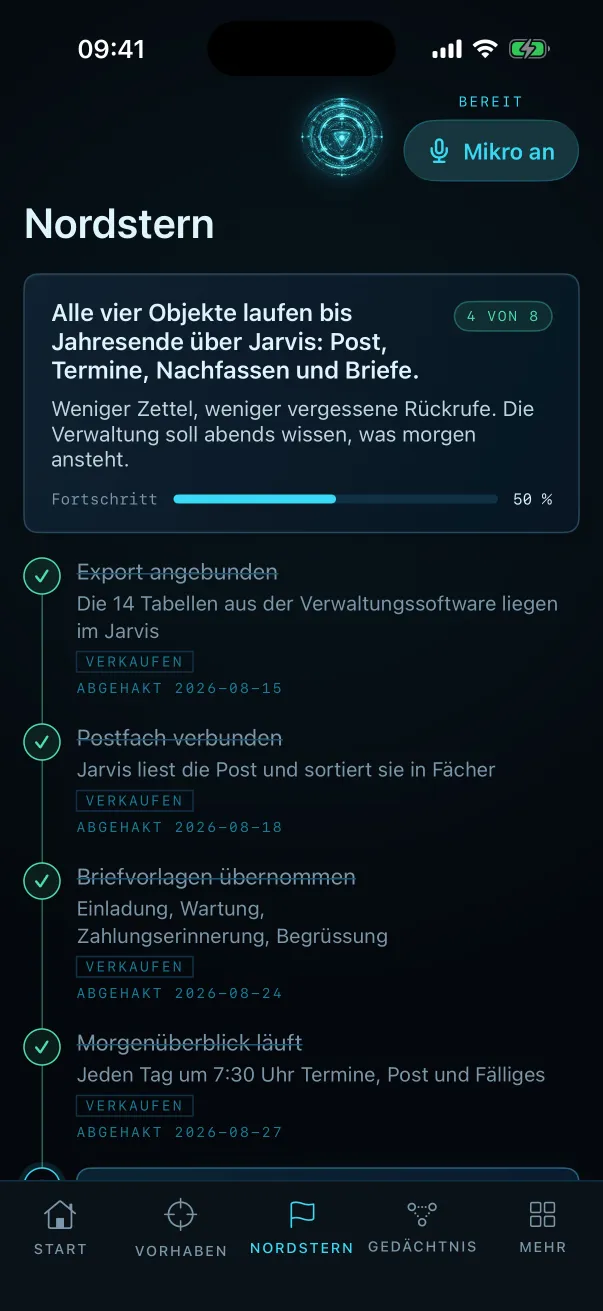
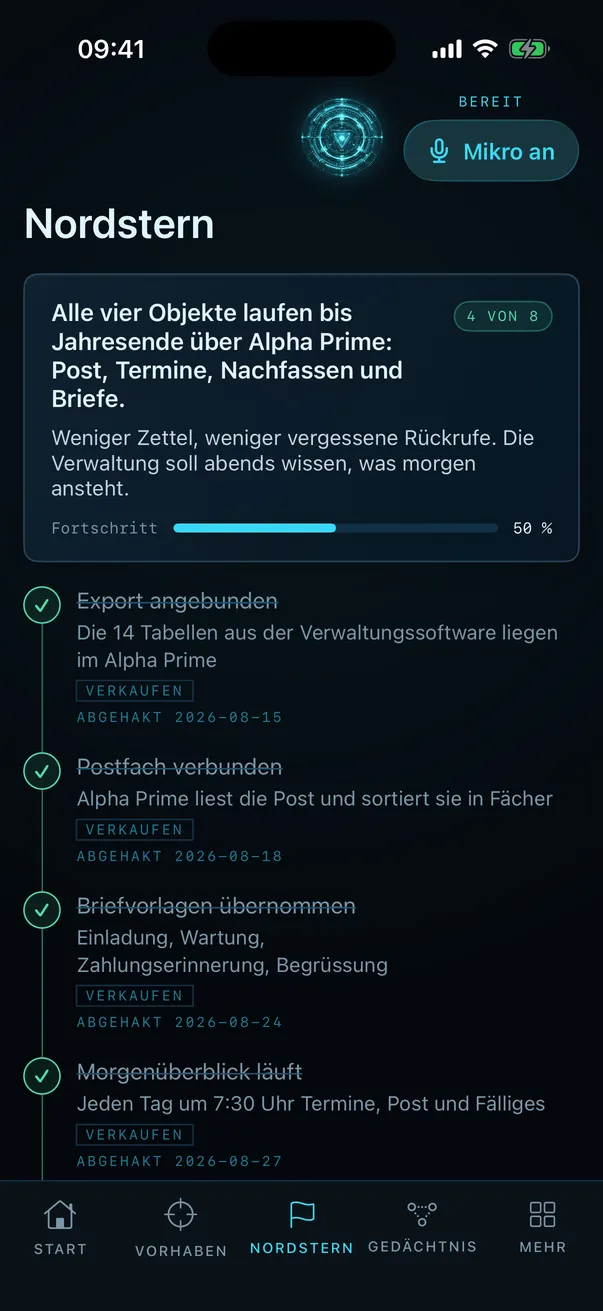
Neue Aufnahmen der App unter dem Namen Alpha Prime
Alle iPhone- und Mac-Bilder neu: kein Jarvis mehr im Bild, Begrüßung
„Guten Tag“, Vorhaben ohne internen Hinweis, Mac-Übersicht vollständig.
Nordstern-Bild wieder in der Bildstrecke.

diff --git a/alpha-prime/index.html b/alpha-prime/index.html
@@ -14,7 +14,7 @@
 <link rel="preload" href="/assets/fonts/neu/archivo-var.woff2" as="font" type="font/woff2" crossorigin>
 <link rel="preload" href="/assets/fonts/xn7gYHE41ni1AdIRggexSg.woff2" as="font" type="font/woff2" crossorigin>
 
-<link rel="stylesheet" href="/stil.css?v=202610082259">
+<link rel="stylesheet" href="/stil.css?v=202610082313">
 <meta property="og:type" content="website">
 <meta property="og:site_name" content="Alpha Blueprint">
 <meta property="og:locale" content="de_DE">
@@ -68,7 +68,7 @@
         <figure><img src="/assets/neu/jarvis/iphone-vorhaben.webp" width="603" height="1311" alt="" loading="lazy"></figure>
         <figure><img src="/assets/neu/jarvis/iphone-merker.webp" width="603" height="1311" alt="" loading="lazy"></figure>
         <figure><img src="/assets/neu/jarvis/iphone-gehirn.webp" width="603" height="1311" alt="" loading="lazy"></figure>
-        <figure><img src="/assets/neu/jarvis/iphone-start.webp" width="603" height="1311" alt="" loading="lazy"></figure>
+        <figure><img src="/assets/neu/jarvis/iphone-nordstern.webp" width="603" height="1311" alt="" loading="lazy"></figure>
       </div>
       <div class="schritte">
         <div class="schritt">
@@ -99,7 +99,7 @@
           <p class="kennung">Nordstern</p>
           <h3>Er kennt Ihr Ziel.</h3>
           <p>Das große Ziel als Leiter mit Schritten zum Abhaken. Alpha Prime richtet seine Vorschläge danach aus und fragt nach, wenn etwas erledigt klingt. Abgehakt wird nur, was Sie bestätigen.</p>
-          <img class="handy-bild" src="/assets/neu/jarvis/iphone-start.webp" width="603" height="1311" alt="Startseite mit der Nordstern-Karte: Ziel, Fortschritt und der nächste Schritt" loading="lazy">
+          <img class="handy-bild" src="/assets/neu/jarvis/iphone-nordstern.webp" width="603" height="1311" alt="Nordstern-Leiter mit abgehakten Schritten und Fortschritt" loading="lazy">
         </div>
       </div>
     </div>
@@ -280,8 +280,8 @@
     <div class="zeile-unten"><span>© 2026 Alpha Blueprint Management and Consulting - FZCO</span><span>Erstgespräch kostenlos und unverbindlich</span></div>
   </div>
 </footer>
-<script src="/seite.js?v=202610082259" defer></script>
-<script src="/consent.js?v=202610082259" defer></script>
+<script src="/seite.js?v=202610082313" defer></script>
+<script src="/consent.js?v=202610082313" defer></script>
 
 </body>
 </html>

diff --git a/index.html b/index.html
@@ -14,7 +14,7 @@
 <link rel="preload" href="/assets/fonts/neu/archivo-var.woff2" as="font" type="font/woff2" crossorigin>
 <link rel="preload" href="/assets/fonts/xn7gYHE41ni1AdIRggexSg.woff2" as="font" type="font/woff2" crossorigin>
 <link rel="preload" as="image" href="/assets/neu/reaktor-kern.webp" fetchpriority="high">
-<link rel="stylesheet" href="/stil.css?v=202610082259">
+<link rel="stylesheet" href="/stil.css?v=202610082313">
 <meta property="og:type" content="website">
 <meta property="og:site_name" content="Alpha Blueprint">
 <meta property="og:locale" content="de_DE">
@@ -108,7 +108,7 @@
       <p>Alpha Prime ist eine eigene App für Mac und iPhone. Sie sprechen ihn an wie einen Mitarbeiter, er arbeitet im Hintergrund weiter, und am Handy sehen Sie dieselbe Arbeitslage wie am Schreibtisch.</p>
     </div>
     <div class="buehne">
-      <img class="mac" src="/assets/neu/jarvis/mac-uebersicht.webp" width="1440" height="918" alt="Alpha Prime am Mac: Übersicht mit Nordstern, offenen Nachfass-Punkten und dem Reaktor einer Musterhausverwaltung" loading="lazy">
+      <img class="mac" src="/assets/neu/jarvis/mac-uebersicht.webp" width="1440" height="900" alt="Alpha Prime am Mac: Übersicht mit Nordstern, offenen Nachfass-Punkten, Vorhaben und dem Reaktor einer Musterhausverwaltung" loading="lazy">
       <img class="iphone" src="/assets/neu/jarvis/iphone-start.webp" width="603" height="1311" alt="Alpha Prime auf dem iPhone: der Reaktor ist bereit, darunter Gespräch starten" loading="lazy">
     </div>
     <div class="kopfzeile mitte zeigen" style="margin-top:clamp(72px,10vw,128px)">
@@ -275,8 +275,8 @@
     <div class="zeile-unten"><span>© 2026 Alpha Blueprint Management and Consulting - FZCO</span><span>Erstgespräch kostenlos und unverbindlich</span></div>
   </div>
 </footer>
-<script src="/seite.js?v=202610082259" defer></script>
-<script src="/consent.js?v=202610082259" defer></script>
-<script src="/contact.js?v=202610082259" defer></script>
+<script src="/seite.js?v=202610082313" defer></script>
+<script src="/consent.js?v=202610082313" defer></script>
+<script src="/contact.js?v=202610082313" defer></script>
 </body>
 </html>

diff --git a/_bau/seiten/alpha-prime/index.html b/_bau/seiten/alpha-prime/index.html
@@ -66,7 +66,7 @@
         <figure><img src="/assets/neu/jarvis/iphone-vorhaben.webp" width="603" height="1311" alt="" loading="lazy"></figure>
         <figure><img src="/assets/neu/jarvis/iphone-merker.webp" width="603" height="1311" alt="" loading="lazy"></figure>
         <figure><img src="/assets/neu/jarvis/iphone-gehirn.webp" width="603" height="1311" alt="" loading="lazy"></figure>
-        <figure><img src="/assets/neu/jarvis/iphone-start.webp" width="603" height="1311" alt="" loading="lazy"></figure>
+        <figure><img src="/assets/neu/jarvis/iphone-nordstern.webp" width="603" height="1311" alt="" loading="lazy"></figure>
       </div>
       <div class="schritte">
         <div class="schritt">
@@ -97,7 +97,7 @@
           <p class="kennung">Nordstern</p>
           <h3>Er kennt Ihr Ziel.</h3>
           <p>Das große Ziel als Leiter mit Schritten zum Abhaken. Alpha Prime richtet seine Vorschläge danach aus und fragt nach, wenn etwas erledigt klingt. Abgehakt wird nur, was Sie bestätigen.</p>
-          <img class="handy-bild" src="/assets/neu/jarvis/iphone-start.webp" width="603" height="1311" alt="Startseite mit der Nordstern-Karte: Ziel, Fortschritt und der nächste Schritt" loading="lazy">
+          <img class="handy-bild" src="/assets/neu/jarvis/iphone-nordstern.webp" width="603" height="1311" alt="Nordstern-Leiter mit abgehakten Schritten und Fortschritt" loading="lazy">
         </div>
       </div>
     </div>

diff --git a/checkliste.html b/checkliste.html
@@ -14,7 +14,7 @@
 <link rel="preload" href="/assets/fonts/neu/archivo-var.woff2" as="font" type="font/woff2" crossorigin>
 <link rel="preload" href="/assets/fonts/xn7gYHE41ni1AdIRggexSg.woff2" as="font" type="font/woff2" crossorigin>
 
-<link rel="stylesheet" href="/stil.css?v=202610082259">
+<link rel="stylesheet" href="/stil.css?v=202610082313">
 <meta property="og:type" content="website">
 <meta property="og:site_name" content="Alpha Blueprint">
 <meta property="og:locale" content="de_DE">
@@ -93,8 +93,8 @@
     <div class="zeile-unten"><span>© 2026 Alpha Blueprint Management and Consulting - FZCO</span><span>Erstgespräch kostenlos und unverbindlich</span></div>
   </div>
 </footer>
-<script src="/seite.js?v=202610082259" defer></script>
-<script src="/consent.js?v=202610082259" defer></script>
-<script src="/leadmagnet.js?v=202610082259" defer></script>
+<script src="/seite.js?v=202610082313" defer></script>
+<script src="/consent.js?v=202610082313" defer></script>
+<script src="/leadmagnet.js?v=202610082313" defer></script>
 </body>
 </html>

diff --git a/kontakt.html b/kontakt.html
@@ -14,7 +14,7 @@
 <link rel="preload" href="/assets/fonts/neu/archivo-var.woff2" as="font" type="font/woff2" crossorigin>
 <link rel="preload" href="/assets/fonts/xn7gYHE41ni1AdIRggexSg.woff2" as="font" type="font/woff2" crossorigin>
 
-<link rel="stylesheet" href="/stil.css?v=202610082259">
+<link rel="stylesheet" href="/stil.css?v=202610082313">
 <meta property="og:type" content="website">
 <meta property="og:site_name" content="Alpha Blueprint">
 <meta property="og:locale" content="de_DE">
@@ -96,8 +96,8 @@
     <div class="zeile-unten"><span>© 2026 Alpha Blueprint Management and Consulting - FZCO</span><span>Erstgespräch kostenlos und unverbindlich</span></div>
   </div>
 </footer>
-<script src="/seite.js?v=202610082259" defer></script>
-<script src="/consent.js?v=202610082259" defer></script>
-<script src="/contact.js?v=202610082259" defer></script>
+<script src="/seite.js?v=202610082313" defer></script>
+<script src="/consent.js?v=202610082313" defer></script>
+<script src="/contact.js?v=202610082313" defer></script>
 </body>
 </html>

diff --git a/_bau/seiten/index.html b/_bau/seiten/index.html
@@ -74,7 +74,7 @@
       <p>Alpha Prime ist eine eigene App für Mac und iPhone. Sie sprechen ihn an wie einen Mitarbeiter, er arbeitet im Hintergrund weiter, und am Handy sehen Sie dieselbe Arbeitslage wie am Schreibtisch.</p>
     </div>
     <div class="buehne">
-      <img class="mac" src="/assets/neu/jarvis/mac-uebersicht.webp" width="1440" height="918" alt="Alpha Prime am Mac: Übersicht mit Nordstern, offenen Nachfass-Punkten und dem Reaktor einer Musterhausverwaltung" loading="lazy">
+      <img class="mac" src="/assets/neu/jarvis/mac-uebersicht.webp" width="1440" height="900" alt="Alpha Prime am Mac: Übersicht mit Nordstern, offenen Nachfass-Punkten, Vorhaben und dem Reaktor einer Musterhausverwaltung" loading="lazy">
       <img class="iphone" src="/assets/neu/jarvis/iphone-start.webp" width="603" height="1311" alt="Alpha Prime auf dem iPhone: der Reaktor ist bereit, darunter Gespräch starten" loading="lazy">
     </div>
     <div class="kopfzeile mitte zeigen" style="margin-top:clamp(72px,10vw,128px)">

diff --git a/alpha-automation/index.html b/alpha-automation/index.html
@@ -14,7 +14,7 @@
 <link rel="preload" href="/assets/fonts/neu/archivo-var.woff2" as="font" type="font/woff2" crossorigin>
 <link rel="preload" href="/assets/fonts/xn7gYHE41ni1AdIRggexSg.woff2" as="font" type="font/woff2" crossorigin>
 
-<link rel="stylesheet" href="/stil.css?v=202610082259">
+<link rel="stylesheet" href="/stil.css?v=202610082313">
 <meta property="og:type" content="website">
 <meta property="og:site_name" content="Alpha Blueprint">
 <meta property="og:locale" content="de_DE">
@@ -260,8 +260,8 @@
     <div class="zeile-unten"><span>© 2026 Alpha Blueprint Management and Consulting - FZCO</span><span>Erstgespräch kostenlos und unverbindlich</span></div>
   </div>
 </footer>
-<script src="/seite.js?v=202610082259" defer></script>
-<script src="/consent.js?v=202610082259" defer></script>
+<script src="/seite.js?v=202610082313" defer></script>
+<script src="/consent.js?v=202610082313" defer></script>
 
 </body>
 </html>

diff --git a/datenschutz.html b/datenschutz.html
@@ -14,7 +14,7 @@
 <link rel="preload" href="/assets/fonts/neu/archivo-var.woff2" as="font" type="font/woff2" crossorigin>
 <link rel="preload" href="/assets/fonts/xn7gYHE41ni1AdIRggexSg.woff2" as="font" type="font/woff2" crossorigin>
 
-<link rel="stylesheet" href="/stil.css?v=202610082259">
+<link rel="stylesheet" href="/stil.css?v=202610082313">
 <meta property="og:type" content="website">
 <meta property="og:site_name" content="Alpha Blueprint">
 <meta property="og:locale" content="de_DE">
@@ -112,8 +112,8 @@
     <div class="zeile-unten"><span>© 2026 Alpha Blueprint Management and Consulting - FZCO</span><span>Erstgespräch kostenlos und unverbindlich</span></div>
   </div>
 </footer>
-<script src="/seite.js?v=202610082259" defer></script>
-<script src="/consent.js?v=202610082259" defer></script>
+<script src="/seite.js?v=202610082313" defer></script>
+<script src="/consent.js?v=202610082313" defer></script>
 
 </body>
 </html>

diff --git a/ki-beratung.html b/ki-beratung.html
@@ -14,7 +14,7 @@
 <link rel="preload" href="/assets/fonts/neu/archivo-var.woff2" as="font" type="font/woff2" crossorigin>
 <link rel="preload" href="/assets/fonts/xn7gYHE41ni1AdIRggexSg.woff2" as="font" type="font/woff2" crossorigin>
 
-<link rel="stylesheet" href="/stil.css?v=202610082259">
+<link rel="stylesheet" href="/stil.css?v=202610082313">
 <meta property="og:type" content="website">
 <meta property="og:site_name" content="Alpha Blueprint">
 <meta property="og:locale" content="de_DE">
@@ -115,8 +115,8 @@
     <div class="zeile-unten"><span>© 2026 Alpha Blueprint Management and Consulting - FZCO</span><span>Erstgespräch kostenlos und unverbindlich</span></div>
   </div>
 </footer>
-<script src="/seite.js?v=202610082259" defer></script>
-<script src="/consent.js?v=202610082259" defer></script>
+<script src="/seite.js?v=202610082313" defer></script>
+<script src="/consent.js?v=202610082313" defer></script>
 
 </body>
 </html>

diff --git a/leistungen.html b/leistungen.html
@@ -14,7 +14,7 @@
 <link rel="preload" href="/assets/fonts/neu/archivo-var.woff2" as="font" type="font/woff2" crossorigin>
 <link rel="preload" href="/assets/fonts/xn7gYHE41ni1AdIRggexSg.woff2" as="font" type="font/woff2" crossorigin>
 
-<link rel="stylesheet" href="/stil.css?v=202610082259">
+<link rel="stylesheet" href="/stil.css?v=202610082313">
 <meta property="og:type" content="website">
 <meta property="og:site_name" content="Alpha Blueprint">
 <meta property="og:locale" content="de_DE">
@@ -107,8 +107,8 @@
     <div class="zeile-unten"><span>© 2026 Alpha Blueprint Management and Consulting - FZCO</span><span>Erstgespräch kostenlos und unverbindlich</span></div>
   </div>
 </footer>
-<script src="/seite.js?v=202610082259" defer></script>
-<script src="/consent.js?v=202610082259" defer></script>
+<script src="/seite.js?v=202610082313" defer></script>
+<script src="/consent.js?v=202610082313" defer></script>
 
 </body>
 </html>

diff --git a/ratgeber-email-automatisierung.html b/ratgeber-email-automatisierung.html
@@ -14,7 +14,7 @@
 <link rel="preload" href="/assets/fonts/neu/archivo-var.woff2" as="font" type="font/woff2" crossorigin>
 <link rel="preload" href="/assets/fonts/xn7gYHE41ni1AdIRggexSg.woff2" as="font" type="font/woff2" crossorigin>
 
-<link rel="stylesheet" href="/stil.css?v=202610082259">
+<link rel="stylesheet" href="/stil.css?v=202610082313">
 <meta property="og:type" content="article">
 <meta property="og:site_name" content="Alpha Blueprint">
 <meta property="og:locale" content="de_DE">
@@ -113,8 +113,8 @@
     <div class="zeile-unten"><span>© 2026 Alpha Blueprint Management and Consulting - FZCO</span><span>Erstgespräch kostenlos und unverbindlich</span></div>
   </div>
 </footer>
-<script src="/seite.js?v=202610082259" defer></script>
-<script src="/consent.js?v=202610082259" defer></script>
+<script src="/seite.js?v=202610082313" defer></script>
+<script src="/consent.js?v=202610082313" defer></script>
 
 </body>
 </html>

diff --git a/ratgeber-ki-mittelstand.html b/ratgeber-ki-mittelstand.html
@@ -14,7 +14,7 @@
 <link rel="preload" href="/assets/fonts/neu/archivo-var.woff2" as="font" type="font/woff2" crossorigin>
 <link rel="preload" href="/assets/fonts/xn7gYHE41ni1AdIRggexSg.woff2" as="font" type="font/woff2" crossorigin>
 
-<link rel="stylesheet" href="/stil.css?v=202610082259">
+<link rel="stylesheet" href="/stil.css?v=202610082313">
 <meta property="og:type" content="article">
 <meta property="og:site_name" content="Alpha Blueprint">
 <meta property="og:locale" content="de_DE">
@@ -107,8 +107,8 @@
     <div class="zeile-unten"><span>© 2026 Alpha Blueprint Management and Consulting - FZCO</span><span>Erstgespräch kostenlos und unverbindlich</span></div>
   </div>
 </footer>
-<script src="/seite.js?v=202610082259" defer></script>
-<script src="/consent.js?v=202610082259" defer></script>
+<script src="/seite.js?v=202610082313" defer></script>
+<script src="/consent.js?v=202610082313" defer></script>
 
 </body>
 </html>
